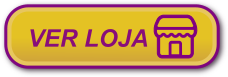
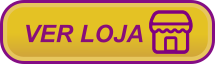
atualização-quatro

diff --git a/SRC/css/style-fazer-pedidos.css b/SRC/css/style-fazer-pedidos.css
@@ -4,8 +4,8 @@
     box-sizing: border-box;
     font-family: Arial, Helvetica, sans-serif;
     font-style: italic;
-    border-radius: 7px;
-    color: rgb(46, 0, 46);
+    border-radius: 0.4em;
+    color: rgb(48, 48, 48);
 }
 
 .container {
@@ -15,26 +15,15 @@
     justify-content: center;
     align-items: center;
     position: relative;
-}
-
-.container-logo-checkout{
-    width: 100vw;
-    display: flex;
-    align-items: center;
-    justify-content: center;
-    margin: 10px 0;
-}
-
-.logo-checkout {
-    width: 30%;
+    background-color: white;
 }
 
 .checkout-selecionar-variacoes {
     /* border: rgb(78, 78, 78) solid 1px; */
     position: relative;
-    width: 100vw;
-    height: 90vh;
-    padding: 10px;
+    /* max-width: 100vw; */
+    /* height: 90vh; */
+    
     display: flex;
     flex-direction: column;
     text-align: center;
@@ -43,7 +32,7 @@
 }
 
 .titulo-nome {
-    font-size: 17px;
+    font-size: 1em;
     margin-bottom: 0.2em;
     font-weight: 600;
     text-transform: uppercase;
@@ -56,16 +45,16 @@
 }
 
 .valor-input-nome {
-    font-size: 16px;
-    height: 40px;
-    padding: 10px;
-    border: rgb(78, 78, 78) solid 1px;
-    box-shadow: rgb(78, 78, 78) 2px 2px;
+    font-size: 1em;
+    height: 2.5em;
+    padding: 1em;
+    border: rgb(78, 78, 78) solid 0.1em;
+    box-shadow: rgb(78, 78, 78) 0.1em 0.1em;
     
 }
 
 .titulo-checkout {
-    font-size: 17px;
+    font-size: 1em;
     font-weight: 600;
     font-family: Arial, Helvetica, sans-serif;
     border: none;
@@ -76,7 +65,7 @@
 }
 
 input#cores {
-    width: 20px;
+    /* width: 1.5em; */
     transform: scale(2.2);
     margin-bottom: 1.1em;
     display: flex;
@@ -84,89 +73,96 @@ input#cores {
 }
 
 .campo-cores, .campo-tamanhos, .campo-quantidade {
-    border: rgb(78, 78, 78) solid 1px;
+    border: rgb(78, 78, 78) solid 0.1em;
     padding: 5px;
-    margin-bottom: 10px;
-    box-shadow: rgb(78, 78, 78) 2px 2px;
+    margin-bottom: 1em;
+    box-shadow: rgb(78, 78, 78) 0.1em 0.1em;
+    background-color: white;
 }
 
 .titulo-selecione-cor, .titulo-selecione-tamanhos, .titulo-selecione-quantidade {
     display: flex;
     justify-content: center;
-    margin-bottom: 15px;
+    margin-bottom: 1em;
     font-weight: 600;
     text-transform: uppercase;
 }
 
 .selecionar-cores, .selecionar-tamanhos, .selecionar-quantidade {
     display: flex;
-    margin-bottom: 10px;
-    gap: 10px;
+    margin-bottom: 0.2em;
+    gap: 0.5em;
     justify-content: center;
 }
 
 .cor-preto {
     background-color: rgb(53, 53, 53);
-    color: aliceblue;
-    padding: 3px;
-    border-radius: 4px;
-    border: solid 1px gray;
+    color: white;
+    padding: 0.3em;
+    border-radius: 0.4em;
+    border: solid 0.1em gray;
 }
 
 .cor-branco {
     background-color: aliceblue;
-    padding: 3px;
-    border-radius: 4px;
-    border: solid 1px gray;
+    padding: 0.3em;
+    border-radius: 0.4em;
+    border: solid 0.1em gray;
 }
 
 .cor-azul {
     background-color: blue;
-    padding: 3px;
-    color: aliceblue;
-    border-radius: 4px;
-    border: solid 1px gray;
+    padding: 0.3em;
+    color: white;
+    border-radius: 0.4em;
+    border: solid 0.1em gray;
 }
 
 .cor-vermelho {
     background-color: red;
-    padding: 3px;
-    color: aliceblue;
-    border-radius: 4px;
-    border: solid 1px gray;
+    padding: 0.3em;
+    color: white;
+    border-radius: 0.4em;
+    border: solid 0.1em gray;
 }
 
 .cor-cinza {
     background-color: rgb(170, 170, 170);
-    padding: 3px;
-    color: aliceblue;
-    border-radius: 4px;
-    border: solid 1px gray;
+    padding: 0.3em;
+    color: white;
+    border-radius: 0.4em;
+    border: solid 0.1em gray;
 }
 
 .selecionar-tamanhos {
-    gap: 40px;
+    gap: 3em;
     
 }
 
 .selecionar-preto, .selecionar-branco, .selecionar-azul, .selecionar-vermelho, .selecionar-cinza {
     display: flex;
     flex-direction: column;
-    font-size: 13px;
+    font-size: 0.9em;    
 }
 
 .selecionar-p, .selecionar-m, .selecionar-g, .selecionar-gg {
     display: flex;
     flex-direction: column;
-    font-size: 20px;
+    font-size: 1.3em;
     font-weight: 600;
+    color: rgb(48, 48, 48);
+}
+
+.selecionar-quantidade {
+    gap: 1em;
 }
 
 .btn-01, .btn-02, .btn-03, .btn-04, .btn-05, .btn-06 {
-    padding: 7.5px;
-    border: solid 2px grey;
+    padding: 0.5em;
+    border: solid 0.2em rgb(78, 78, 78);
     font-weight: 600;
-    background-color: white;    
+    background-color: white;
+    margin-bottom: 0.5em; 
 }
 
 .texto-orientar-pedido {
@@ -176,4 +172,7 @@ input#cores {
 
 .rodape-fazer-pedido {
     font-size: 0.5em;
+    position: relative;
+    top: 7vh;
+    
 }

diff --git a/SRC/css/style-anuncios.css b/SRC/css/style-anuncios.css
@@ -102,7 +102,7 @@ article {
 
 .slider-indicators {
     position: absolute;
-    bottom: 10px;
+    bottom: 2px;
     left: 50%;
     transform: translateX(-50%);
     display: flex;
@@ -111,16 +111,16 @@ article {
 }
 
 .indicator {
-    width: 12px;
-    height: 12px;
-    background-color: rgba(255, 255, 255, 0.7);
+    width: 10px;
+    height: 10px;
+    background-color: rgba(253, 214, 41, 0.466);
     border-radius: 50%;
     cursor: pointer;
     transition: background-color 0.3s ease;
 }
 
 .indicator.active {
-    background-color: #007bff;
+    background-color: purple;
 }
 
 .cores,
@@ -139,7 +139,7 @@ article {
     font-family: Arial, Helvetica, sans-serif;
     text-transform: uppercase;
     font-style: italic;
-    font-size: 1em;
+    font-size: 0.8em;
     color: black;
     font-weight: 500;
 }
@@ -155,13 +155,14 @@ article {
 
 .texto-tamanhos {
     position: relative;
-    font-size: 1em;
+    font-size: 0.8em;
 }
 
 .tamanhos-icones {
     font-weight: 700;
-    font-size: 1.4em;
-    letter-spacing: 6.5px;
+    font-size: 1em;
+    letter-spacing: 6px;
+    margin: 0;
 }
 
 .condicoes {
@@ -169,7 +170,7 @@ article {
     align-items: center;
     justify-content: space-evenly;
     position: relative;
-    bottom: 25px;
+    bottom: 30px;
 }
 
 .preco {
@@ -180,7 +181,7 @@ article {
 .valor {
     font-family: Arial, Helvetica, sans-serif;
     text-transform: uppercase;
-    font-size: 1.7em;
+    font-size: 1.4em;
     color: black;
     font-weight: 500;
     letter-spacing: 2px;
@@ -189,14 +190,15 @@ article {
 .parcelamento {
     font-family: Arial, Helvetica, sans-serif;
     text-transform: uppercase;
-    font-size: 0.7em;
+    font-size: 0.56em;
     font-weight: 600;
     /* margin-right: 1em; */
     letter-spacing: 1px;
 }
 
 .frete-gratis {
-    width: 50%;
+    width: 9em;
+
 }
 
 .container-fazer-pedido {
@@ -208,10 +210,10 @@ article {
     display: flex;
     align-items: center;
     justify-content: center;
-    width: 15em;
-    height: 2.5em;
+    width: 10em;
+    height: 2.3em;
     border-radius: 10px;
-    font-size: 1.3em;
+    font-size: 1em;
     font-family: Arial, Helvetica, sans-serif;
     font-style: italic;
     font-weight: 600;
@@ -219,30 +221,33 @@ article {
     text-transform: uppercase;
     text-decoration: none;    
     margin-bottom: 1.7em;
+    bottom: 0.8em;
+    position: relative;
     background-color: rgb(253, 214, 41);
 }
 
 .descricao {
     position: relative;
     padding: 10px;
-    bottom: 25px;
+    bottom: 30px;
     font-family: Arial, Helvetica, sans-serif;
     font-size: 12px;
-    margin-bottom: 1em;
+    margin-bottom: 0em;
 }
 
 .loja-bomb {
     background-image: url(../imagens/vitrine-anuncios/background-bomb.png);
     position: relative;
     width: 100%;
-    bottom: 35px;
-    padding-top: 25px;
+    bottom: 2em;
+    /* padding: 2em 0; */
 }
 
 .icones-pagamento {
     display: flex;
     justify-content: space-evenly;
     align-items: center;
+    margin-bottom: 0.8em;
 }
 
 .icone-sumup,
@@ -272,7 +277,7 @@ article {
 
 .logo-bomb {
     width: 50%;
-    margin-bottom: 100px;
+    /* margin-bottom: 100px; */
 }
 
 .rodape {
@@ -280,8 +285,8 @@ article {
     justify-content: center;
     position: relative;
     font-size: 10px;
-    bottom: 3em;
-    padding-bottom: 10px;
+    /* bottom: 2.5em; */
+    /* padding-bottom: 1em; */
     font-family: Arial, Helvetica, sans-serif;
     color: rgb(85, 1, 85);
 }
